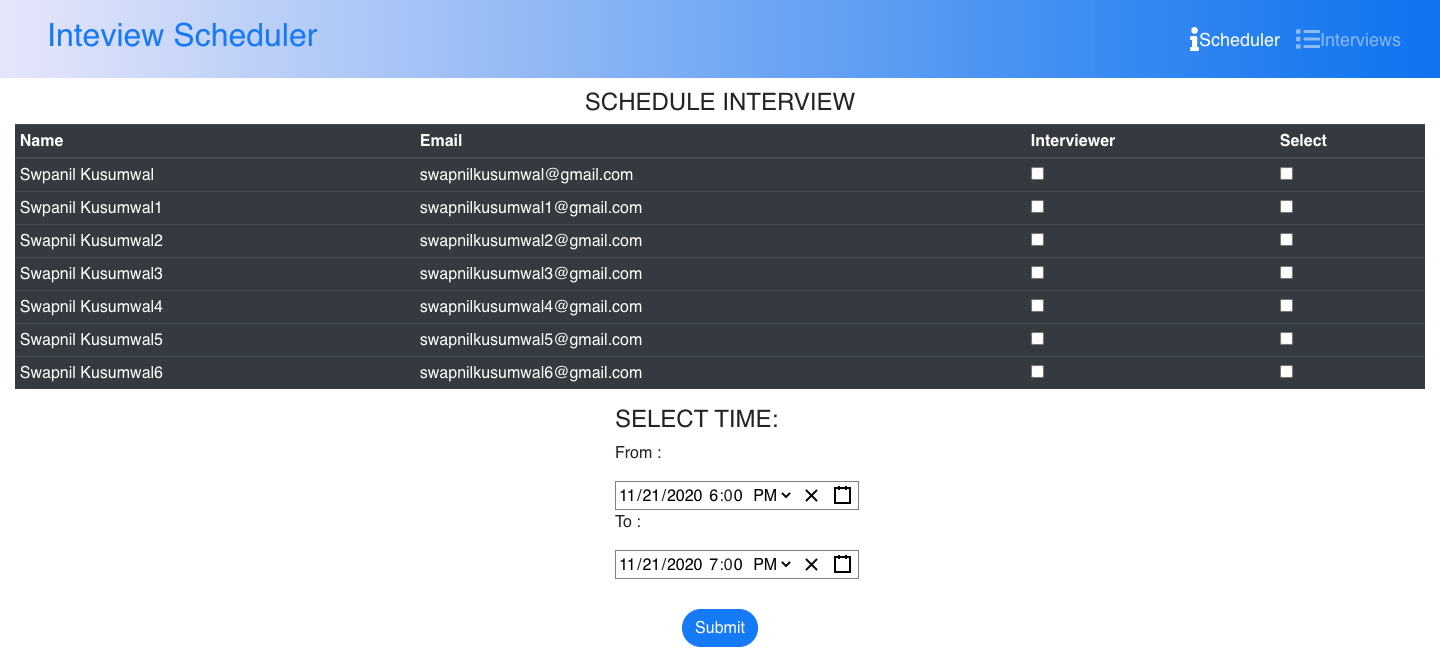
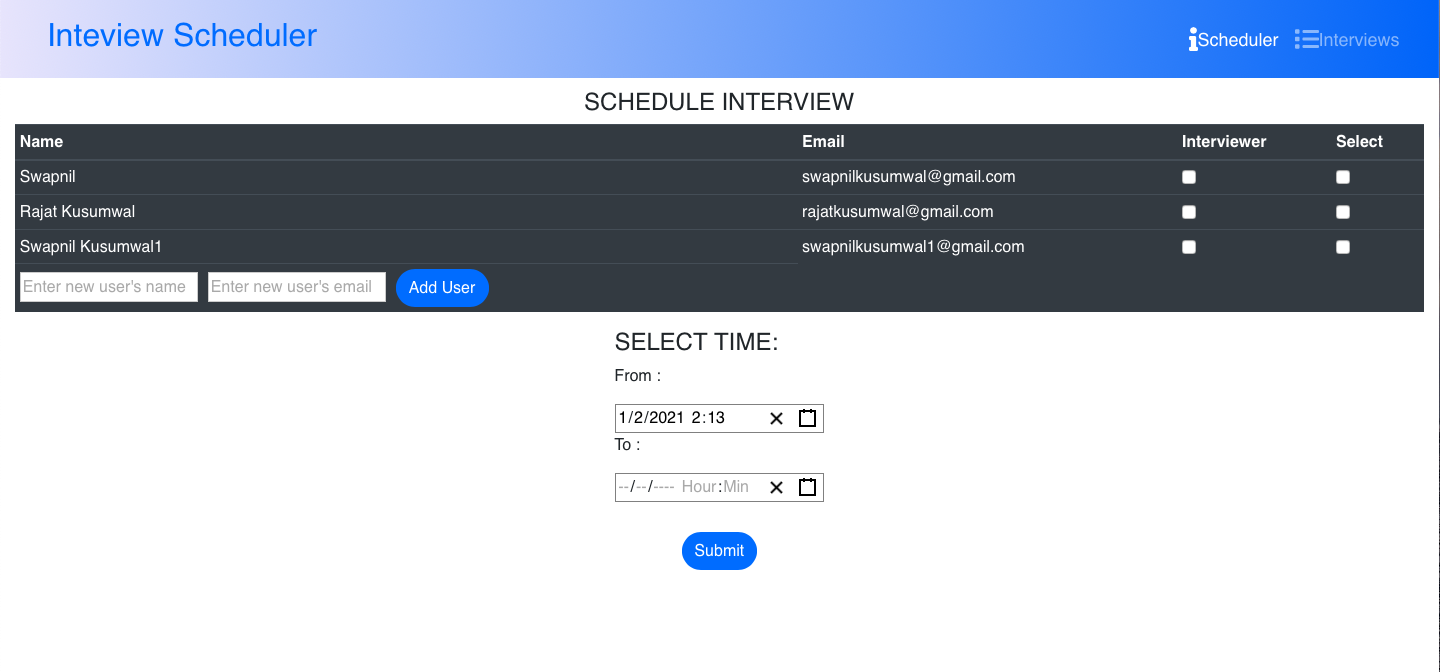
Add User feature and Deployment

diff --git a/backend/public/static/js/main.e380d566.chunk.js b/backend/public/static/js/main.e380d566.chunk.js
@@ -1,0 +1,2 @@
+(this["webpackJsonpinterview-scheduler"]=this["webpackJsonpinterview-scheduler"]||[]).push([[0],{46:function(e,t,n){},47:function(e,t,n){},82:function(e,t,n){"use strict";n.r(t);var c=n(2),s=n(1),i=n.n(s),r=n(25),a=n.n(r),l=(n(46),n(47),n(14)),o=n(15),d=n(18),j=n(17),h=n(40),u=n(85),b=n(86),m=n(87),O=n(11);function x(){var e=Object(s.useState)(!1),t=Object(h.a)(e,2);t[0],t[1];return Object(c.jsxs)(u.a,{dark:!0,expand:"md header",children:[Object(c.jsx)("div",{className:"col-6",children:Object(c.jsx)(b.a,{children:Object(c.jsx)(m.a,{children:Object(c.jsx)(O.b,{className:"nav-link",to:"/",children:Object(c.jsx)("h2",{children:"Inteview Scheduler"})})})})}),Object(c.jsx)("div",{className:"col-6",style:{display:"flex",justifyContent:"flex-end"},children:Object(c.jsxs)(b.a,{navbar:!0,children:[Object(c.jsx)(m.a,{children:Object(c.jsxs)(O.b,{className:"nav-link",to:"/scheduler",children:[Object(c.jsx)("span",{className:"fa fa-info fa-lg"}),"Scheduler"]})}),Object(c.jsx)(m.a,{children:Object(c.jsxs)(O.b,{className:"nav-link",to:"/interviews",children:[Object(c.jsx)("span",{className:"fa fa-list fa-lg"}),"Interviews"]})})]})})]})}var p=n(19),f=n(33),v=n.n(f),w=[],g=[],T=[],C=function(e){Object(d.a)(n,e);var t=Object(j.a)(n);function n(e){var c;return Object(l.a)(this,n),(c=t.call(this,e)).handleChangeSelect=function(e,t){var n=w.indexOf(e);-1===n?(w.push(e),T.push(t)):(w.splice(n,1),T.splice(n,1)),console.log(w.length)},c.handleChangeInterviewer=function(e){var t=g.indexOf(e);-1===t?g.push(e):g.splice(t,1)},c.handleAddUser=function(){var e={email:c.state.newUserEmail,name:c.state.newUserName};""==c.state.newUserEmail||""==c.state.newUserName?alert("Please enter new user's details"):fetch("/users/",{method:"POST",body:JSON.stringify(e),headers:{"Content-Type":"application/json"},credentials:"same-origin"}).then((function(e){return e.ok?(console.log(e),window.location.reload(),e):e.json().then((function(e){throw e}))})).then((function(e){return e.json()})).catch((function(e){console.log("Details ",e),alert("Error adding new user \n"+e)}))},c.handleSubmit=function(){if(c.state.startTime>c.state.endTime)alert("Please select appropriate time values.");else{var e={startTime:c.state.startTime,endTime:c.state.endTime,selectedCandidates:w,selectedInterviewers:g,selectedCandidatesEmail:T};""!==c.state.currentId&&"undefined"!=c.state.currentId&&(e.id=c.state.currentId);var t=""===c.state.currentId?"":c.state.currentId;console.log(e),fetch("/interview/"+t,{method:"POST",body:JSON.stringify(e),headers:{"Content-Type":"application/json"},credentials:"same-origin"}).then((function(e){return e.ok?(console.log(e),alert("Interview schduled!"),e):e.json().then((function(e){throw e}))})).then((function(e){return e.json()})).catch((function(e){console.log("Submit interview details ",e),alert("Interview Schedule error \n"+e)}))}},c.fetchCandidateList=function(){fetch("/users",{headers:{"Content-Type":"application/json"},credentials:"same-origin"}).then((function(e){if(e.ok)return e;var t=new Error("Error "+e.status+": "+e.statusText);throw t.response=e,t}),(function(e){throw new Error(e.message)})).then((function(e){return e.json()})).then((function(e){c.setState({users:e.users})})).catch((function(e){console.log("Get Candidates ",e.message),alert("Candidates could not be fetched \nError: "+e.message)}))},c.state={users:[{name:"Loading...",email:"Loading..."}],startTime:new Date,endTime:"",currentId:"",nope:!1,newUserEmail:"",newUserName:""},c.fetchCandidateList=c.fetchCandidateList.bind(Object(p.a)(c)),c.handleChangeSelect=c.handleChangeSelect.bind(Object(p.a)(c)),c.handleSubmit=c.handleSubmit.bind(Object(p.a)(c)),c}return Object(o.a)(n,[{key:"componentDidMount",value:function(){w=[],T=[],g=[];var e=window.location.href.substring(32);""!==e&&this.setState({currentId:e}),this.fetchCandidateList()}},{key:"render",value:function(){var e=this;return Object(c.jsxs)("div",{className:"row m-auto ml-0 background",style:{paddingTop:10},children:[Object(c.jsxs)("div",{className:"col-12",children:[Object(c.jsx)("h4",{className:"text-center",children:"SCHEDULE INTERVIEW"}),Object(c.jsxs)("table",{className:"table table-sm table-dark",children:[Object(c.jsx)("thead",{children:Object(c.jsxs)("tr",{children:[Object(c.jsx)("th",{scope:"col",children:"Name"}),Object(c.jsx)("th",{scope:"col",children:"Email"}),Object(c.jsx)("th",{scope:"col",children:"Interviewer"}),Object(c.jsx)("th",{scope:"col",children:"Select"})]})}),Object(c.jsxs)("tbody",{children:[this.state.users.map((function(t){return Object(c.jsxs)("tr",{children:[Object(c.jsx)("td",{children:t.name}),Object(c.jsx)("td",{children:t.email}),Object(c.jsx)("td",{children:Object(c.jsx)("input",{type:"checkbox",onClick:function(){return e.handleChangeInterviewer(t._id)},value:-1!==w.indexOf(t._id)})}),Object(c.jsx)("td",{children:Object(c.jsx)("input",{type:"checkbox",onClick:function(){return e.handleChangeSelect(t._id,t.email)},value:-1!==g.indexOf(t._id)})})]},t.email)})),Object(c.jsx)("tr",{children:Object(c.jsxs)("td",{children:[Object(c.jsx)("input",{type:"text",placeholder:"Enter new user's name",onChange:function(t){return e.setState({newUserName:t.target.value})},value:this.state.newUserName}),Object(c.jsx)("input",{type:"text",placeholder:"Enter new user's email",onChange:function(t){return e.setState({newUserEmail:t.target.value})},value:this.state.newUserEmail,style:{marginLeft:"10px"}}),Object(c.jsx)("div",{className:"btn btn-primary",style:{marginLeft:"10px",borderRadius:35},onClick:function(){return e.handleAddUser()},children:"Add User"})]})})]})]})]}),Object(c.jsx)("div",{className:"col-sm-5 col-4"}),Object(c.jsxs)("div",{className:"col-12 col-sm-2 center columnWise",children:[Object(c.jsx)("h4",{children:"SELECT TIME: "}),Object(c.jsx)("p",{children:"From : "}),Object(c.jsx)(v.a,{value:this.state.startTime,minDate:new Date,hourPlaceholder:"Hour",minutePlaceholder:"Min",onChange:function(t){e.setState({startTime:t})}}),Object(c.jsx)("p",{children:"To : "}),Object(c.jsx)(v.a,{hourPlaceholder:"Hour",minutePlaceholder:"Min",minDate:this.state.startTime,value:this.state.endTime,onChange:function(t){e.setState({endTime:t})}})]}),Object(c.jsx)("div",{className:"col-6"}),Object(c.jsx)("div",{className:"col-12",style:{display:"flex",justifyContent:"center",paddingTop:30},children:Object(c.jsx)("div",{className:"btn btn-primary center",style:{borderRadius:35},onClick:function(){return e.handleSubmit()},children:"Submit"})})]})}}]),n}(s.Component),y=function(e){Object(d.a)(n,e);var t=Object(j.a)(n);function n(e){var c;return Object(l.a)(this,n),(c=t.call(this,e)).state={interviews:[{startTime:"Loading...",endTime:"Loading",interviewer:["Loading..."],interviewee:["Loading..."]}]},c}return Object(o.a)(n,[{key:"componentDidMount",value:function(){var e=this;console.log(this.props.location),fetch("/interview",{headers:{"Content-Type":"application/json"},credentials:"same-origin"}).then((function(e){if(e.ok)return e;var t=new Error("Error "+e.status+": "+e.statusText);throw t.response=e,t}),(function(e){throw new Error(e.message)})).then((function(e){return e.json()})).then((function(t){e.setState({interviews:t.interviews}),console.log(t.interviews)})).catch((function(e){console.log("Get Interviews ",e.message),alert("Interviews could not be fetched \n"+e.message)}))}},{key:"render",value:function(){return Object(c.jsxs)("div",{style:{padding:10},children:[Object(c.jsx)("h4",{className:"text-center",children:"Upcoming interviews"}),Object(c.jsxs)("table",{className:"table table-sm table-dark",style:{color:"white"},children:[Object(c.jsx)("thead",{children:Object(c.jsxs)("tr",{children:[Object(c.jsx)("th",{scope:"col",children:"Start Time"}),Object(c.jsx)("th",{scope:"col",children:"End Time"}),Object(c.jsx)("th",{scope:"col",children:"Interviewers"}),Object(c.jsx)("th",{scope:"col",children:"Interviewees"}),Object(c.jsx)("th",{scope:"col",children:"Click to edit"})]})}),Object(c.jsx)("tbody",{children:this.state.interviews.map((function(e){return Object(c.jsxs)("tr",{children:[Object(c.jsxs)("td",{children:[Object(c.jsx)("p",{children:new Date(e.startTime).toLocaleTimeString()}),Object(c.jsx)("p",{children:new Date(e.startTime).toLocaleDateString()})]}),Object(c.jsxs)("td",{children:[Object(c.jsxs)("p",{children:[new Date(e.endTime).toLocaleTimeString()," "]}),Object(c.jsx)("p",{children:new Date(e.endTime).toLocaleDateString()})]}),Object(c.jsx)("td",{children:e.interviewer.map((function(e){return Object(c.jsxs)("li",{children:[Object(c.jsxs)("p",{children:[" ",e.name]}),Object(c.jsx)("li",{children:Object(c.jsxs)("p",{children:["- ",e.email]})})]})}))}),Object(c.jsx)("td",{children:e.interviewee.map((function(e){return Object(c.jsxs)("li",{children:[Object(c.jsx)("p",{children:e.name}),Object(c.jsx)("li",{children:Object(c.jsxs)("p",{children:["- ",e.email]})})]})}))}),Object(c.jsx)("td",{children:Object(c.jsx)(O.b,{to:"/scheduler/"+e._id,children:Object(c.jsx)("button",{className:"btn btn-primary",children:"Edit"})})})]},e._id)}))})]})]})}}]),n}(s.Component),S=n(5),N=function(e){Object(d.a)(n,e);var t=Object(j.a)(n);function n(e){return Object(l.a)(this,n),t.call(this,e)}return Object(o.a)(n,[{key:"render",value:function(){return Object(c.jsxs)(c.Fragment,{children:[Object(c.jsx)(x,{}),Object(c.jsxs)(S.d,{location:this.props.location,children:[Object(c.jsx)(S.b,{path:"/scheduler",component:C}),Object(c.jsx)(S.b,{path:"/scheduler/:id",component:C}),Object(c.jsx)(S.b,{path:"/interviews",component:y}),Object(c.jsx)(S.a,{to:"/scheduler"})]})]})}}]),n}(s.Component),E=Object(S.g)(N);n(80);var k=function(){return Object(c.jsx)(O.a,{children:Object(c.jsx)("div",{children:Object(c.jsx)(E,{})})})},I=function(e){e&&e instanceof Function&&n.e(3).then(n.bind(null,88)).then((function(t){var n=t.getCLS,c=t.getFID,s=t.getFCP,i=t.getLCP,r=t.getTTFB;n(e),c(e),s(e),i(e),r(e)}))};a.a.render(Object(c.jsx)(i.a.StrictMode,{children:Object(c.jsx)(k,{})}),document.getElementById("root")),I()}},[[82,1,2]]]);
+//# sourceMappingURL=main.e380d566.chunk.js.map

diff --git a/backend/public/index.html b/backend/public/index.html
@@ -1,1 +1,1 @@
-<!doctype html><html lang="en"><head><meta charset="utf-8"/><link rel="icon" href="/background2.jpg"/><meta name="viewport" content="width=device-width,initial-scale=1"/><meta name="theme-color" content="#000000"/><meta name="description" content="Web site created using create-react-app"/><link rel="stylesheet" href="https://stackpath.bootstrapcdn.com/bootstrap/4.3.1/css/bootstrap.min.css" integrity="sha384-ggOyR0iXCbMQv3Xipma34MD+dH/1fQ784/j6cY/iJTQUOhcWr7x9JvoRxT2MZw1T" crossorigin="anonymous"><link rel="manifest" href="/manifest.json"/><script src="https://use.fontawesome.com/releases/v5.13.0/js/all.js" crossorigin="anonymous"></script><link href="https://fonts.googleapis.com/css?family=Merriweather+Sans:400,700" rel="stylesheet"/><link href="https://fonts.googleapis.com/css?family=Merriweather:400,300,300italic,400italic,700,700italic" rel="stylesheet"/><link href="https://cdnjs.cloudflare.com/ajax/libs/magnific-popup.js/1.1.0/magnific-popup.min.css" rel="stylesheet"/><title>Interview Scheduler</title><link href="/static/css/2.61d20cf0.chunk.css" rel="stylesheet"><link href="/static/css/main.1e508fde.chunk.css" rel="stylesheet"></head><body><noscript>You need to enable JavaScript to run this app.</noscript><div id="loader"></div><div id="root"></div><script>!function(e){function r(r){for(var n,i,a=r[0],c=r[1],l=r[2],s=0,p=[];s<a.length;s++)i=a[s],Object.prototype.hasOwnProperty.call(o,i)&&o[i]&&p.push(o[i][0]),o[i]=0;for(n in c)Object.prototype.hasOwnProperty.call(c,n)&&(e[n]=c[n]);for(f&&f(r);p.length;)p.shift()();return u.push.apply(u,l||[]),t()}function t(){for(var e,r=0;r<u.length;r++){for(var t=u[r],n=!0,a=1;a<t.length;a++){var c=t[a];0!==o[c]&&(n=!1)}n&&(u.splice(r--,1),e=i(i.s=t[0]))}return e}var n={},o={1:0},u=[];function i(r){if(n[r])return n[r].exports;var t=n[r]={i:r,l:!1,exports:{}};return e[r].call(t.exports,t,t.exports,i),t.l=!0,t.exports}i.e=function(e){var r=[],t=o[e];if(0!==t)if(t)r.push(t[2]);else{var n=new Promise((function(r,n){t=o[e]=[r,n]}));r.push(t[2]=n);var u,a=document.createElement("script");a.charset="utf-8",a.timeout=120,i.nc&&a.setAttribute("nonce",i.nc),a.src=function(e){return i.p+"static/js/"+({}[e]||e)+"."+{3:"026d31b9"}[e]+".chunk.js"}(e);var c=new Error;u=function(r){a.onerror=a.onload=null,clearTimeout(l);var t=o[e];if(0!==t){if(t){var n=r&&("load"===r.type?"missing":r.type),u=r&&r.target&&r.target.src;c.message="Loading chunk "+e+" failed.\n("+n+": "+u+")",c.name="ChunkLoadError",c.type=n,c.request=u,t[1](c)}o[e]=void 0}};var l=setTimeout((function(){u({type:"timeout",target:a})}),12e4);a.onerror=a.onload=u,document.head.appendChild(a)}return Promise.all(r)},i.m=e,i.c=n,i.d=function(e,r,t){i.o(e,r)||Object.defineProperty(e,r,{enumerable:!0,get:t})},i.r=function(e){"undefined"!=typeof Symbol&&Symbol.toStringTag&&Object.defineProperty(e,Symbol.toStringTag,{value:"Module"}),Object.defineProperty(e,"__esModule",{value:!0})},i.t=function(e,r){if(1&r&&(e=i(e)),8&r)return e;if(4&r&&"object"==typeof e&&e&&e.__esModule)return e;var t=Object.create(null);if(i.r(t),Object.defineProperty(t,"default",{enumerable:!0,value:e}),2&r&&"string"!=typeof e)for(var n in e)i.d(t,n,function(r){return e[r]}.bind(null,n));return t},i.n=function(e){var r=e&&e.__esModule?function(){return e.default}:function(){return e};return i.d(r,"a",r),r},i.o=function(e,r){return Object.prototype.hasOwnProperty.call(e,r)},i.p="/",i.oe=function(e){throw console.error(e),e};var a=this["webpackJsonpinterview-scheduler"]=this["webpackJsonpinterview-scheduler"]||[],c=a.push.bind(a);a.push=r,a=a.slice();for(var l=0;l<a.length;l++)r(a[l]);var f=c;t()}([])</script><script src="/static/js/2.24521773.chunk.js"></script><script src="/static/js/main.7905d174.chunk.js"></script></body><script src="https://cdnjs.cloudflare.com/ajax/libs/jquery/3.5.1/jquery.min.js"></script><script src="https://stackpath.bootstrapcdn.com/bootstrap/4.5.0/js/bootstrap.bundle.min.js"></script><script src="https://cdnjs.cloudflare.com/ajax/libs/jquery-easing/1.4.1/jquery.easing.min.js"></script><script src="https://cdnjs.cloudflare.com/ajax/libs/magnific-popup.js/1.1.0/jquery.magnific-popup.min.js"></script><script>$(window).load((function(){$("#loader").fadeOut("fast")}))</script><script src="js/scripts.js"></script></html>
+<!doctype html><html lang="en"><head><meta charset="utf-8"/><link rel="icon" href="/background2.jpg"/><meta name="viewport" content="width=device-width,initial-scale=1"/><meta name="theme-color" content="#000000"/><meta name="description" content="Web site created using create-react-app"/><link rel="stylesheet" href="https://stackpath.bootstrapcdn.com/bootstrap/4.3.1/css/bootstrap.min.css" integrity="sha384-ggOyR0iXCbMQv3Xipma34MD+dH/1fQ784/j6cY/iJTQUOhcWr7x9JvoRxT2MZw1T" crossorigin="anonymous"><link rel="manifest" href="/manifest.json"/><script src="https://use.fontawesome.com/releases/v5.13.0/js/all.js" crossorigin="anonymous"></script><link href="https://fonts.googleapis.com/css?family=Merriweather+Sans:400,700" rel="stylesheet"/><link href="https://fonts.googleapis.com/css?family=Merriweather:400,300,300italic,400italic,700,700italic" rel="stylesheet"/><link href="https://cdnjs.cloudflare.com/ajax/libs/magnific-popup.js/1.1.0/magnific-popup.min.css" rel="stylesheet"/><title>Interview Scheduler</title><link href="/static/css/2.61d20cf0.chunk.css" rel="stylesheet"><link href="/static/css/main.1e508fde.chunk.css" rel="stylesheet"></head><body><noscript>You need to enable JavaScript to run this app.</noscript><div id="loader"></div><div id="root"></div><script>!function(e){function r(r){for(var n,i,a=r[0],c=r[1],l=r[2],s=0,p=[];s<a.length;s++)i=a[s],Object.prototype.hasOwnProperty.call(o,i)&&o[i]&&p.push(o[i][0]),o[i]=0;for(n in c)Object.prototype.hasOwnProperty.call(c,n)&&(e[n]=c[n]);for(f&&f(r);p.length;)p.shift()();return u.push.apply(u,l||[]),t()}function t(){for(var e,r=0;r<u.length;r++){for(var t=u[r],n=!0,a=1;a<t.length;a++){var c=t[a];0!==o[c]&&(n=!1)}n&&(u.splice(r--,1),e=i(i.s=t[0]))}return e}var n={},o={1:0},u=[];function i(r){if(n[r])return n[r].exports;var t=n[r]={i:r,l:!1,exports:{}};return e[r].call(t.exports,t,t.exports,i),t.l=!0,t.exports}i.e=function(e){var r=[],t=o[e];if(0!==t)if(t)r.push(t[2]);else{var n=new Promise((function(r,n){t=o[e]=[r,n]}));r.push(t[2]=n);var u,a=document.createElement("script");a.charset="utf-8",a.timeout=120,i.nc&&a.setAttribute("nonce",i.nc),a.src=function(e){return i.p+"static/js/"+({}[e]||e)+"."+{3:"026d31b9"}[e]+".chunk.js"}(e);var c=new Error;u=function(r){a.onerror=a.onload=null,clearTimeout(l);var t=o[e];if(0!==t){if(t){var n=r&&("load"===r.type?"missing":r.type),u=r&&r.target&&r.target.src;c.message="Loading chunk "+e+" failed.\n("+n+": "+u+")",c.name="ChunkLoadError",c.type=n,c.request=u,t[1](c)}o[e]=void 0}};var l=setTimeout((function(){u({type:"timeout",target:a})}),12e4);a.onerror=a.onload=u,document.head.appendChild(a)}return Promise.all(r)},i.m=e,i.c=n,i.d=function(e,r,t){i.o(e,r)||Object.defineProperty(e,r,{enumerable:!0,get:t})},i.r=function(e){"undefined"!=typeof Symbol&&Symbol.toStringTag&&Object.defineProperty(e,Symbol.toStringTag,{value:"Module"}),Object.defineProperty(e,"__esModule",{value:!0})},i.t=function(e,r){if(1&r&&(e=i(e)),8&r)return e;if(4&r&&"object"==typeof e&&e&&e.__esModule)return e;var t=Object.create(null);if(i.r(t),Object.defineProperty(t,"default",{enumerable:!0,value:e}),2&r&&"string"!=typeof e)for(var n in e)i.d(t,n,function(r){return e[r]}.bind(null,n));return t},i.n=function(e){var r=e&&e.__esModule?function(){return e.default}:function(){return e};return i.d(r,"a",r),r},i.o=function(e,r){return Object.prototype.hasOwnProperty.call(e,r)},i.p="/",i.oe=function(e){throw console.error(e),e};var a=this["webpackJsonpinterview-scheduler"]=this["webpackJsonpinterview-scheduler"]||[],c=a.push.bind(a);a.push=r,a=a.slice();for(var l=0;l<a.length;l++)r(a[l]);var f=c;t()}([])</script><script src="/static/js/2.24521773.chunk.js"></script><script src="/static/js/main.e380d566.chunk.js"></script></body><script src="https://cdnjs.cloudflare.com/ajax/libs/jquery/3.5.1/jquery.min.js"></script><script src="https://stackpath.bootstrapcdn.com/bootstrap/4.5.0/js/bootstrap.bundle.min.js"></script><script src="https://cdnjs.cloudflare.com/ajax/libs/jquery-easing/1.4.1/jquery.easing.min.js"></script><script src="https://cdnjs.cloudflare.com/ajax/libs/magnific-popup.js/1.1.0/jquery.magnific-popup.min.js"></script><script>$(window).load((function(){$("#loader").fadeOut("fast")}))</script><script src="js/scripts.js"></script></html>

diff --git a/src/components/SchedulerComponent.js b/src/components/SchedulerComponent.js
@@ -12,7 +12,9 @@ export default class Scheduler extends Component {
       startTime:new Date(),
       endTime:'',
       currentId:'',
-      nope:false
+      nope:false,
+      newUserEmail:'',
+      newUserName:''
     }
 
     this.fetchCandidateList = this.fetchCandidateList.bind(this);
@@ -39,6 +41,40 @@ export default class Scheduler extends Component {
     }
     else{
       selectedInterviewers.splice(index,1);
+    }
+  }
+  handleAddUser=()=>{
+    let obj={
+      email:this.state.newUserEmail,
+      name:this.state.newUserName
+    }
+    if(this.state.newUserEmail=='' || this.state.newUserName==''){
+      alert("Please enter new user's details");
+    }
+    else{
+      fetch(baseUrl+'users/',{
+        method:'POST',
+        body:JSON.stringify(obj),
+        headers:{
+          'Content-Type': 'application/json'
+        },
+        credentials:'same-origin'
+      })
+      .then(response => {
+        if (response.ok) {
+          console.log(response);
+          window.location.reload();
+          return response;
+        } else {
+          return response.json().then((body) => {
+            // throw ("Error "+response.status.toString()+" "+response.statusText+" \n"+body)
+            throw(body);
+          })
+        }
+      })
+      .then(response=>response.json())
+      .catch(error=>{console.log('Details ',error)
+        alert('Error adding new user \n'+error)})  
     }
   }
   handleSubmit=()=>{
@@ -156,6 +192,13 @@ export default class Scheduler extends Component {
                   </tr> 
                 )
               })}
+              <tr>
+                <td>
+                  <input type="text" placeholder="Enter new user's name" onChange={(event)=>this.setState({newUserName:event.target.value})} value={this.state.newUserName} />
+                  <input type="text" placeholder="Enter new user's email" onChange={(event)=>this.setState({newUserEmail:event.target.value})} value={this.state.newUserEmail} style={{marginLeft:'10px'}}/>
+                  <div className="btn btn-primary" style={{marginLeft:'10px',borderRadius:35}} onClick={()=>this.handleAddUser()}>Add User</div>
+                </td>
+              </tr>
             </tbody>
           </table>
         </div>

diff --git a/backend/routes/users.js b/backend/routes/users.js
@@ -15,4 +15,43 @@ router.get('/', function(req, res) {
   .catch(err=>res.send(err))
 });
 
+router.post('/',async function(req, res) {
+  console.log(req.body);
+  await Users.find({email:req.body.email})
+  .then(async (data)=>{
+    if(data.length==0){
+      await Users.create(req.body)
+      .then((data)=>{
+        res.statusCode = 200;
+        res.setHeader("Content-Type", "application/json");
+        res.json({user:data});
+        res.end();
+      })
+      .catch((err) => {
+
+        console.log("HERER EXISTS");
+        res.statusCode=400;
+        res.setHeader("Content-Type", "application/json");
+        res.json("Failed to add user.");
+        res.end();
+      });
+    }
+    else{
+
+      console.log("HERER ELSE");
+      res.statusCode=400;
+      res.setHeader("Content-Type", "application/json");
+      res.json("Failed to add user.");
+      res.end();
+    }
+  })
+  .catch((err) => {
+    console.log("HERER");
+    res.statusCode=400;
+    res.setHeader("Content-Type", "application/json");
+    res.json("Failed to add user.");
+    res.end();
+  });
+})
+
 module.exports = router;

diff --git a/backend/app.js b/backend/app.js
@@ -11,18 +11,7 @@ var usersRouter = require('./routes/users');
 var interviewsRouter = require('./routes/interviews');
 
 var app = express();
-// var smtp=require('./smtp');
-
-// let mailOptions = {
-//   from: mailerConfig.auth.user,
-//   to: 'swapnilkusumwal@gmail.com',
-//   subject: 'Some Subject',
-//   html: `<body>` +
-//       `<p>Your interview has been scheduled</p>`
-      
-// };
-// smtp.temp(mailOptions);
-const url=config.mongoUrl;
+const url=config.mongoURI;
 const connect = mongoose.connect(url,{useNewUrlParser: true,useUnifiedTopology: true,useFindAndModify: false});
 
 connect.then((db)=>{

diff --git a/src/baseUrl.js b/src/baseUrl.js
@@ -1,2 +1,2 @@
 // export const baseUrl="http://45.79.127.113:3000/";
-export const baseUrl="http://localhost:3000/";
+export const baseUrl="/";
